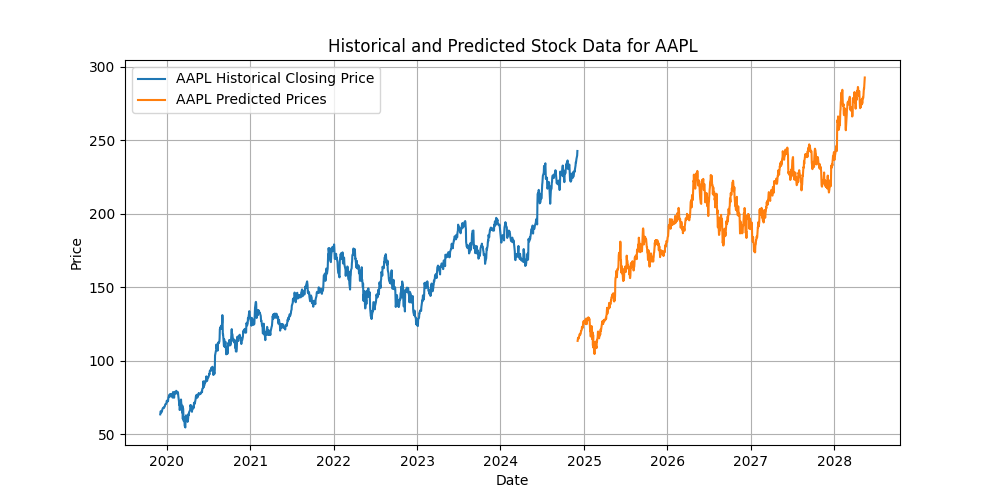
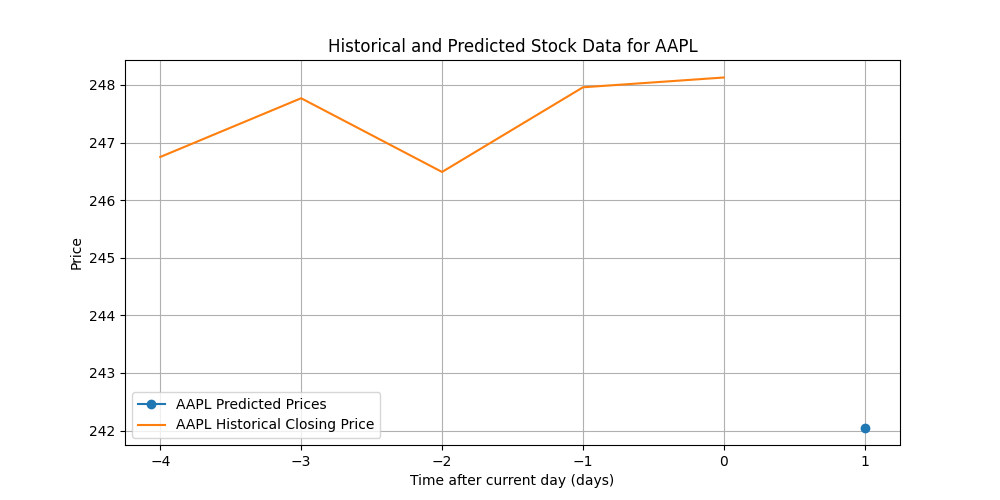
sprint 3 done, lstm works and spits out prediction, and it is shown on a matplot lib graph

diff --git a/ui.py b/ui.py
@@ -1,26 +1,118 @@
 import streamlit as st
+from data_preprocessing import fetched_data_to_sequenced_data_with_scaler
 from data_fetcher import fetch_stock_data
+from data_preprocessing import scaling_and_reshaping_raw_data
 from historical_and_predicted_data_plotter import plot_with_predictions
+import torch
+import pandas as pd
+import numpy
 
 
 st.title("Stock Predictor UI")
 #title of the window
 
-st.write("hello, world")
-#display a message
-
 user_ticker = st.text_input("input a ticker")
 #input field for user to input a ticker
+
+from LSTM import train_lstm
 
 if st.button("make prediction"):
     #button to make prediction
     
     if len(user_ticker) > 0:
-        data = fetch_stock_data(user_ticker)
-        #train_LSTM(data[:-50])
-        #predictions = run_LSTM(data[-50:])
-        predictions = [x+50 for x in data['Close']]
-        fig = plot_with_predictions(data, predictions, user_ticker)
+        
+        #fetches data and splits it into sequences for training
+        X_sequenced, y_sequenced, scaler = fetched_data_to_sequenced_data_with_scaler(user_ticker)
+        
+        print("X_sequenced is:", X_sequenced)
+        print("X_sequenced type is:", type(X_sequenced))
+        print("X_sequenced shape is:", X_sequenced.shape)
+        
+        print("y_sequenced is:", y_sequenced)
+        print("y_sequenced type is:", type(y_sequenced))
+        print("y_sequenced shape is:", y_sequenced.shape)
+        
+        #making a trained model
+        trained_lstm = train_lstm(X_sequenced, y_sequenced)
+        
+        print("training lstm done")
+        
+        #for a new prediction ie we actually don't know the next value, we get the final sequence
+        print("fetching stock data:")
+        
+        fetched_data = fetch_stock_data(user_ticker)
+        
+        print("fetched stock data is:", fetched_data)
+        print("fetched stock data type is:", type(fetched_data))
+        print("fetched stock data shape is:", fetched_data.shape)
+        
+        fetched_data, _ = scaling_and_reshaping_raw_data(fetched_data)
+        
+        print("scaled fetched stock data is:", fetched_data)
+        print("scaled fetched stock data type is:", type(fetched_data))
+        print("scaled fetched stock data shape is:", fetched_data.shape)
+        
+        fetched_data = fetched_data[-50:]
+        
+        print("fin seq scaled fetched stock data is:", fetched_data)
+        print("fin seq scaled fetched stock data type is:", type(fetched_data))
+        print("fin seq scaled fetched stock data shape is:", fetched_data.shape)
+        
+        #this is where it is not reshaping
+        fetched_data = fetched_data.reshape(1, -1, 1)
+        
+        print("reshaped numpy fin seq scaled fetched stock data is:", fetched_data)
+        print("reshaped numpy fin seq scaled fetched stock data type is:", type(fetched_data))
+        print("reshaped numpy fin seq scaled fetched stock data shape is:", fetched_data.shape)
+        
+        data_to_be_predicted_on = torch.tensor(fetched_data, dtype=torch.float32)
+        
+        print("tensored reshaped data is:", data_to_be_predicted_on)
+        print("tensored reshaped data type is:", type(data_to_be_predicted_on))
+        print("tensored reshaped data shape is:", data_to_be_predicted_on.shape)
+        
+        
+        
+        prediction = trained_lstm.forward(data_to_be_predicted_on)
+        
+        print("prediction is:", prediction)
+        print("prediction type is:", type(prediction))
+        print("prediction shape is:", prediction.shape)
+        
+        #going from torch tensor to numpy array as scaler only works w numpy
+        prediction = prediction.detach().numpy()
+        
+        print("prediction is:", prediction)
+        print("prediction type now is:", type(prediction))
+        print("prediction shape now is:", prediction.shape)
+        
+        prediction = prediction.reshape(-1, 1)
+        
+        print("prediction shape now is:", prediction.shape)
+        
+        #data will be around values of 0 and 1 so need to scale back up to expected range
+        prediction = scaler.inverse_transform(prediction)
+        
+        print("prediction is:", prediction)
+        print("prediction type is:", type(prediction))
+        print("prediction shape is:", prediction.shape)
+        
+        prediction = prediction.reshape(-1)
+        
+        print("prediction is:", prediction)
+        print("prediction type is:", type(prediction))
+        print("prediction shape is:", prediction.shape)
+        
+        #to be inserted into the graph as the historical data
+        fetched_data = fetch_stock_data(user_ticker)
+        
+        print("fetched stock data is:", fetched_data)
+        print("fetched stock data type is:", type(fetched_data))
+        print("fetched stock data shape is:", fetched_data.shape)
+        
+        #plotting the data
+        fig = plot_with_predictions(fetched_data[-5:], prediction, user_ticker)
+        
         st.pyplot(fig)
         
     else:

diff --git a/data_preprocessing.py b/data_preprocessing.py
@@ -53,6 +53,8 @@ def sequence_scaled_and_reshaped_data(scaled_data, sequence_length=50):
     X_sequenced, y_sequenced = [], []
     for i in range(sequence_length, len(scaled_data)):
         X_sequenced.append(scaled_data[i-sequence_length:i, 0])
+        
+        #i, 0 is the same as [i][0] just for numpy arrays
         y_sequenced.append(scaled_data[i, 0])
 
     X_sequenced, y_sequenced = np.array(X_sequenced), np.array(y_sequenced)
@@ -64,7 +66,7 @@ def sequence_scaled_and_reshaped_data(scaled_data, sequence_length=50):
     
     return X_sequenced, y_sequenced
     
-
+'''
 def split_sequenced_data_into_test_and_train(X_sequenced, y_sequenced):
     """
     Split the sequenced data into training and testing sets.
@@ -81,6 +83,8 @@ def split_sequenced_data_into_test_and_train(X_sequenced, y_sequenced):
     
 
     return X_train, X_test, y_train, y_test
+    
+'''
     
 '''
 
@@ -121,24 +125,36 @@ def fetched_data_to_sequenced_data_without_scaler(ticker):
     fetched_stock_data = fetch_stock_data(ticker)
     scaled_and_reshaped_data, _ = scaling_and_reshaping_raw_data(fetched_stock_data)
     X_sequenced, y_sequenced = sequence_scaled_and_reshaped_data(scaled_and_reshaped_data)
+    
+    X_sequenced = torch.tensor(X_sequenced, dtype = torch.float32)
+    y_sequenced = torch.tensor(y_sequenced, dtype = torch.float32)
+    
+    '''
     X_train, X_test, y_train, y_test = split_sequenced_data_into_test_and_train(X_sequenced, y_sequenced)
     X_train = torch.tensor(X_train, dtype=torch.float32)
     y_train = torch.tensor(y_train, dtype=torch.float32)
     X_test = torch.tensor(X_test, dtype=torch.float32)
     y_test = torch.tensor(y_test, dtype=torch.float32)
+    '''
     
-    return X_train, y_train, X_test, y_test
+    return X_sequenced, y_sequenced
 
 def fetched_data_to_sequenced_data_with_scaler(ticker):
     fetched_stock_data = fetch_stock_data(ticker)
     scaled_and_reshaped_data, scaler = scaling_and_reshaping_raw_data(fetched_stock_data)
     X_sequenced, y_sequenced = sequence_scaled_and_reshaped_data(scaled_and_reshaped_data)
+    
+    X_sequenced = torch.tensor(X_sequenced, dtype = torch.float32)
+    y_sequenced = torch.tensor(y_sequenced, dtype = torch.float32)
+    
+    '''
     X_train, X_test, y_train, y_test = split_sequenced_data_into_test_and_train(X_sequenced, y_sequenced)
     X_train = torch.tensor(X_train, dtype=torch.float32)
     y_train = torch.tensor(y_train, dtype=torch.float32)
     X_test = torch.tensor(X_test, dtype=torch.float32)
     y_test = torch.tensor(y_test, dtype=torch.float32)
+    '''
     
-    return X_train, y_train, X_test, y_test, scaler
+    return X_sequenced, y_sequenced, scaler
     
     

diff --git a/historical_and_predicted_data_plotter.py b/historical_and_predicted_data_plotter.py
@@ -1,6 +1,6 @@
 import matplotlib.pyplot as plt
-from data_fetcher import fetch_stock_data
 import pandas as pd
+import numpy as np
 
 def plot_with_predictions(data, predictions, ticker):
     """
@@ -14,21 +14,34 @@ def plot_with_predictions(data, predictions, ticker):
     Returns:
         None
     """
-    try:
+
     
-        predicted_index = pd.date_range(start=data.index[-1] + pd.Timedelta(days=1), periods=len(predictions), freq='D')
-        
-        plt.figure(figsize=(10, 5))
-        plt.plot(data.index, data['Close'], label=f"{ticker} Historical Closing Price")
-        plt.plot(predicted_index, predictions, label=f"{ticker} Predicted Prices")
-        plt.title(f"Historical and Predicted Stock Data for {ticker}")
-        plt.xlabel("Date")
-        plt.ylabel("Price")
-        plt.legend()
-        plt.grid()
-        fig = plt.savefig("plot.png")
-        
-    except:
-        print("Error plotting data")
-        
+    plt.figure(figsize=(10, 5))
+    
+    print("predictions are:", predictions)
+    print("len predictions is:", len(predictions))
+    print("type predictions is:", type(predictions))
+    
+    plt.plot([1], predictions, marker='o', label=f"{ticker} Predicted Prices")
+    
+    print("data are:", data)
+    print("len data is:", len(data))
+    print("type data is:", type(data))
+    
+    data = np.array(data)
+    
+    print("data are:", data)
+    print("len data is:", len(data))
+    print("type data is:", type(data))
+    
+    plt.plot([-4,-3,-2,-1,0], data, label=f"{ticker} Historical Closing Price")
+    
+    plt.title(f"Historical and Predicted Stock Data for {ticker}")
+    plt.xlabel("Time after current day (days)")
+    plt.ylabel("Price")
+    plt.legend()
+    plt.grid()
+    fig = plt.savefig("plot.png")
     return fig
+    
+    

diff --git a/testing.py b/testing.py
@@ -69,6 +69,8 @@ def test_333():
     print("prediction is:", test_prediction)
     print("X_train sequence used is:", X_train[0])
     
+
+    
     
     
     
